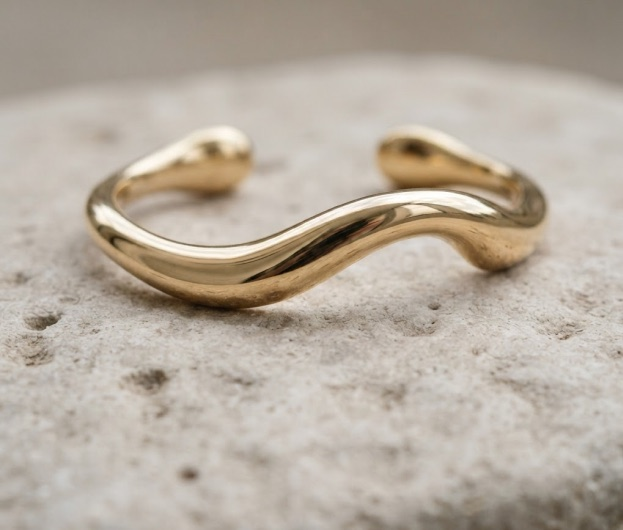
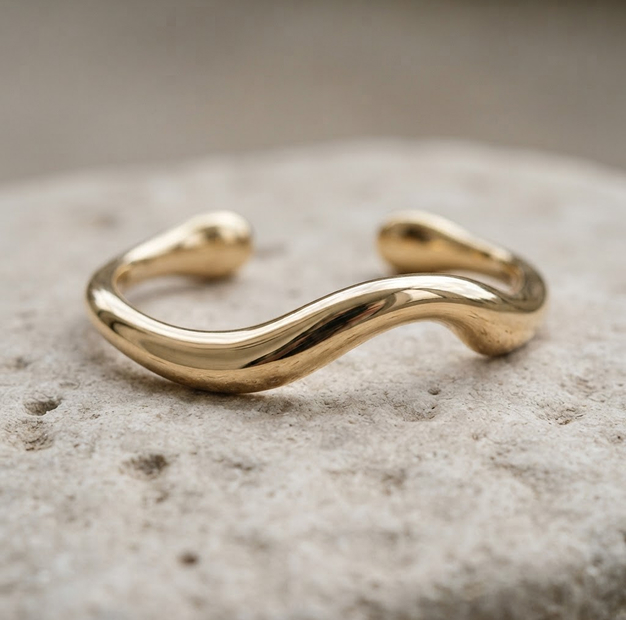
Use final photo exports, improve accessibility, add floating labels
- Replace cropped photos with full-resolution exports from the design
- Give the hero caption the same light label style as the portrait caption
- Darken muted text, gold accents and form underlines to meet WCAG AA
  contrast; use a light focus ring on dark sections
- Empty alt text on category images inside links; reliable star rating text
- Contact form labels float above the field once focused or filled in

diff --git a/index.html b/index.html
@@ -104,7 +104,7 @@
       </div>
 
       <figure class="hero__media">
-        <img src="images/hero-forma-ring.jpg" alt="The Forma ring, a sculptural gold ring, resting on a block of stone" width="1592" height="1320">
+        <img src="images/hero-forma-ring.jpg" alt="The Forma ring, a sculptural gold ring, resting on a block of stone" width="1600" height="1460">
         <figcaption class="hero__caption">
           <span class="hero__caption-number">01</span>
           <span>
@@ -141,9 +141,11 @@
         </div>
 
         <div class="category-grid">
-          <!-- Each card is one big link. The whole card is clickable. -->
+          <!-- Each card is one big link. The whole card is clickable.
+               The photos have empty alt text because the heading already names the link;
+               describing the photo too would make screen readers read a long, muddled link. -->
           <a class="category-card" href="#">
-            <img src="images/category-rings.jpg" alt="A hand wearing a gold signet ring" width="838" height="595" loading="lazy">
+            <img src="images/category-rings.jpg" alt="" width="843" height="600" loading="lazy">
             <div class="category-card__head">
               <h3>Rings</h3>
               <svg class="icon" viewBox="0 0 24 24" aria-hidden="true"><path d="M7 17 17 7M8 7h9v9"/></svg>
@@ -152,7 +154,7 @@
           </a>
 
           <a class="category-card" href="#">
-            <img src="images/category-earrings.jpg" alt="A pair of chunky gold hoop earrings" width="838" height="595" loading="lazy">
+            <img src="images/category-earrings.jpg" alt="" width="843" height="600" loading="lazy">
             <div class="category-card__head">
               <h3>Earrings</h3>
               <svg class="icon" viewBox="0 0 24 24" aria-hidden="true"><path d="M7 17 17 7M8 7h9v9"/></svg>
@@ -161,7 +163,7 @@
           </a>
 
           <a class="category-card" href="#">
-            <img src="images/category-necklaces.jpg" alt="Gold hoops and a pendant necklace in a ceramic dish" width="838" height="595" loading="lazy">
+            <img src="images/category-necklaces.jpg" alt="" width="843" height="600" loading="lazy">
             <div class="category-card__head">
               <h3>Necklaces &amp; bracelets</h3>
               <svg class="icon" viewBox="0 0 24 24" aria-hidden="true"><path d="M7 17 17 7M8 7h9v9"/></svg>
@@ -191,7 +193,7 @@
         <div class="product-grid">
           <article class="product-card">
             <div class="product-card__media">
-              <img src="images/product-forma-ring.jpg" alt="Forma ring in recycled 14k gold" width="623" height="530" loading="lazy">
+              <img src="images/product-forma-ring.jpg" alt="Forma ring in recycled 14k gold" width="626" height="620" loading="lazy">
               <!-- aria-pressed tells assistive tech whether this toggle is on or off -->
               <button class="wishlist-button" type="button" aria-pressed="false" aria-label="Save Forma ring to wishlist">
                 <svg class="icon" viewBox="0 0 24 24" aria-hidden="true"><path d="M12 20s-7-4.4-7-10a4 4 0 0 1 7-2.6A4 4 0 0 1 19 10c0 5.6-7 10-7 10Z"/></svg>
@@ -207,7 +209,7 @@
 
           <article class="product-card">
             <div class="product-card__media">
-              <img src="images/product-solis-hoops.jpg" alt="Solis hoops, a pair of gold hoop earrings" width="623" height="530" loading="lazy">
+              <img src="images/product-solis-hoops.jpg" alt="Solis hoops, a pair of gold hoop earrings" width="626" height="620" loading="lazy">
               <button class="wishlist-button" type="button" aria-pressed="false" aria-label="Save Solis hoops to wishlist">
                 <svg class="icon" viewBox="0 0 24 24" aria-hidden="true"><path d="M12 20s-7-4.4-7-10a4 4 0 0 1 7-2.6A4 4 0 0 1 19 10c0 5.6-7 10-7 10Z"/></svg>
               </button>
@@ -222,7 +224,7 @@
 
           <article class="product-card">
             <div class="product-card__media">
-              <img src="images/product-trace-pendant.jpg" alt="Trace pendant, a hammered gold disc on a fine chain" width="623" height="530" loading="lazy">
+              <img src="images/product-trace-pendant.jpg" alt="Trace pendant, a hammered gold disc on a fine chain" width="626" height="620" loading="lazy">
               <button class="wishlist-button" type="button" aria-pressed="false" aria-label="Save Trace pendant to wishlist">
                 <svg class="icon" viewBox="0 0 24 24" aria-hidden="true"><path d="M12 20s-7-4.4-7-10a4 4 0 0 1 7-2.6A4 4 0 0 1 19 10c0 5.6-7 10-7 10Z"/></svg>
               </button>
@@ -237,7 +239,7 @@
 
           <article class="product-card">
             <div class="product-card__media">
-              <img src="images/product-arc-cuff.jpg" alt="Arc cuff, a wavy open gold bracelet" width="623" height="530" loading="lazy">
+              <img src="images/product-arc-cuff.jpg" alt="Arc cuff, a wavy open gold bracelet" width="626" height="620" loading="lazy">
               <button class="wishlist-button" type="button" aria-pressed="false" aria-label="Save Arc cuff to wishlist">
                 <svg class="icon" viewBox="0 0 24 24" aria-hidden="true"><path d="M12 20s-7-4.4-7-10a4 4 0 0 1 7-2.6A4 4 0 0 1 19 10c0 5.6-7 10-7 10Z"/></svg>
               </button>
@@ -260,7 +262,7 @@
          ============================================================ -->
     <section class="split split--dark" id="atelier">
       <div class="split__media">
-        <img src="images/atelier-hands.jpg" alt="An artisan filing a gold ring at a wooden workbench" width="1418" height="1270" loading="lazy">
+        <img src="images/atelier-hands.jpg" alt="An artisan filing a gold ring at a wooden workbench" width="1440" height="1280" loading="lazy">
       </div>
       <div class="split__content">
         <p class="eyebrow">The hand behind the form</p>
@@ -283,7 +285,7 @@
          ============================================================ -->
     <section class="split split--sand split--wide-media">
       <figure class="split__media">
-        <img src="images/everyday-portrait.jpg" alt="A woman wearing gold hoop earrings and a pendant necklace" width="1594" height="1060" loading="lazy">
+        <img src="images/everyday-portrait.jpg" alt="A woman wearing gold hoop earrings and a pendant necklace" width="1600" height="1200" loading="lazy">
         <figcaption class="image-label">Solis hoops + Trace pendant · The daily pairing</figcaption>
       </figure>
       <div class="split__content">
@@ -313,7 +315,7 @@
           </a>
         </div>
         <figure class="story__media">
-          <img src="images/founder-camille.jpg" alt="Founder Camille Laurent sketching at a desk by a Paris window" width="856" height="875" loading="lazy">
+          <img src="images/founder-camille.jpg" alt="Founder Camille Laurent sketching at a desk by a Paris window" width="860" height="880" loading="lazy">
           <figcaption>Camille Laurent · Founder &amp; designer</figcaption>
         </figure>
       </div>
@@ -324,7 +326,11 @@
          ============================================================ -->
     <section class="section testimonial">
       <div class="container">
-        <p class="testimonial__stars" aria-label="Rated 5 out of 5">★★★★★</p>
+        <!-- Screen readers skip the star symbols and read the hidden sentence instead -->
+        <p class="testimonial__stars">
+          <span aria-hidden="true">★★★★★</span>
+          <span class="visually-hidden">Rated 5 out of 5</span>
+        </p>
         <blockquote>
           <p>“The ring I put on once, and never took off. It feels like it was always mine.”</p>
         </blockquote>
@@ -373,27 +379,30 @@
         <div class="contact">
           <!-- "novalidate" switches off the browser's built-in error bubbles so main.js can show its own -->
           <form class="contact-form" novalidate>
+            <!-- Floating labels: each label comes AFTER its field so the CSS can react
+                 to the field ("input:focus + label"). The placeholder must not be empty
+                 for that CSS to work, so short fields use a single space. -->
             <div class="field-row">
               <div class="field">
+                <input id="first-name" name="firstName" type="text" placeholder=" " autocomplete="given-name" required>
                 <label for="first-name">First name</label>
-                <input id="first-name" name="firstName" type="text" placeholder="Camille" autocomplete="given-name" required>
               </div>
               <div class="field">
+                <input id="last-name" name="lastName" type="text" placeholder=" " autocomplete="family-name" required>
                 <label for="last-name">Last name</label>
-                <input id="last-name" name="lastName" type="text" placeholder="Laurent" autocomplete="family-name" required>
               </div>
             </div>
             <div class="field">
+              <input id="email" name="email" type="email" placeholder=" " autocomplete="email" required>
               <label for="email">Email address</label>
-              <input id="email" name="email" type="email" placeholder="camille@oree.com" autocomplete="email" required>
             </div>
             <div class="field">
-              <label for="subject">Subject</label>
               <input id="subject" name="subject" type="text" placeholder="Sizing advice, gifting, or a custom enquiry">
+              <label for="subject">Subject</label>
             </div>
             <div class="field">
+              <textarea id="message" name="message" rows="2" placeholder="The piece you are looking for, your preferred finish, or any questions before ordering." required></textarea>
               <label for="message">Message</label>
-              <textarea id="message" name="message" rows="2" placeholder="Tell us about the piece you are looking for, your preferred finish, or any questions you have before ordering." required></textarea>
             </div>
 
             <div class="contact-form__footer">

diff --git a/css/styles.css b/css/styles.css
@@ -25,9 +25,13 @@
   --color-sand: #ddd3c2;       /* announcement bar, panels, cards */
   --color-forest: #2f322d;     /* dark sections and footer */
   --color-ink: #2a2721;        /* main text */
-  --color-muted: #6f6a62;      /* secondary text */
-  --color-gold: #8a6a3f;       /* accent: eyebrows, icons, underlines */
-  --color-line: #d3ccc0;       /* thin dividers */
+  --color-muted: #5d5952;      /* secondary text */
+  --color-gold: #725734;       /* accent: eyebrows, icons, underlines */
+  --color-line: #d3ccc0;       /* thin decorative dividers */
+  --color-field-line: #8a857d; /* form field underlines, dark enough to see */
+
+  /* Text colours are dark enough to meet the WCAG AA contrast minimum (4.5:1)
+     on cream, stone and sand. Check them again if you change any colour. */
   --color-paper: #f6f2eb;      /* light text on dark backgrounds */
 
   /* Fonts */
@@ -113,6 +117,12 @@ h1, h2, h3 {
 :focus-visible {
   outline: 2px solid var(--color-gold);
   outline-offset: 3px;
+}
+
+/* Gold is too dark to see on the dark sections, so use the light colour there */
+.split--dark :focus-visible,
+.site-footer :focus-visible {
+  outline-color: var(--color-paper);
 }
 
 /* Hidden on screen, but still read out by screen readers */
@@ -446,16 +456,18 @@ h1, h2, h3 {
   object-fit: cover; /* fills the box without stretching, cropping if needed */
 }
 
-/* Caption that sits on top of the photo */
+/* Caption that sits on top of the photo, styled like .image-label */
 .hero__caption {
   position: absolute;
-  left: 2rem;
-  bottom: 1.5rem;
+  left: 1rem;
+  bottom: 1rem;
   display: flex;
-  align-items: flex-end;
+  align-items: center;
   gap: 1rem;
+  padding: 0.6rem 0.9rem;
+  background: var(--color-paper);
   color: var(--color-ink);
-  font-size: 0.8125rem;
+  font-size: 0.75rem;
   line-height: 1.4;
 }
 
@@ -478,6 +490,12 @@ h1, h2, h3 {
 
   .hero__content {
     padding-block: 5rem 3rem;
+  }
+
+  .hero__caption {
+    left: 1.5rem;
+    bottom: 1.5rem;
+    padding: 0.75rem 1.1rem;
   }
 
   .hero__meta {
@@ -928,8 +946,33 @@ h1, h2, h3 {
   gap: 1.75rem;
 }
 
+/* Floating labels.
+   The empty field shows its label large, inside the field. When the field is
+   focused or filled in, the label shrinks and moves up above it.
+   The top padding on .field leaves room for the small label. */
+.field {
+  position: relative;
+  padding-top: 1.25rem;
+}
+
+/* Resting state: the label sits where the typed text would be */
 .field label {
-  display: block;
+  position: absolute;
+  top: 1.75rem; /* .field padding-top + the field's own padding-top */
+  left: 0;
+  color: var(--color-muted);
+  font-size: 1.0625rem;
+  pointer-events: none; /* clicks pass through the label to the field */
+  transition: top 0.2s ease, font-size 0.2s ease, color 0.2s ease;
+}
+
+/* Floating state. ":placeholder-shown" is true while a field is empty,
+   so ":not(:placeholder-shown)" means "something has been typed". */
+.field input:focus + label,
+.field input:not(:placeholder-shown) + label,
+.field textarea:focus + label,
+.field textarea:not(:placeholder-shown) + label {
+  top: 0;
   color: var(--color-gold);
   font-size: 0.75rem;
   text-transform: uppercase;
@@ -942,14 +985,20 @@ h1, h2, h3 {
   width: 100%;
   padding: 0.5rem 0 0.9rem;
   border: 0;
-  border-bottom: 1px solid var(--color-line);
+  border-bottom: 1px solid var(--color-field-line);
   background: transparent;
   font-size: 1.0625rem;
   resize: vertical;
 }
 
+/* Hints stay hidden behind the label until the field is focused */
 .field input::placeholder,
 .field textarea::placeholder {
+  color: transparent;
+}
+
+.field input:focus::placeholder,
+.field textarea:focus::placeholder {
   color: var(--color-muted);
 }
 
